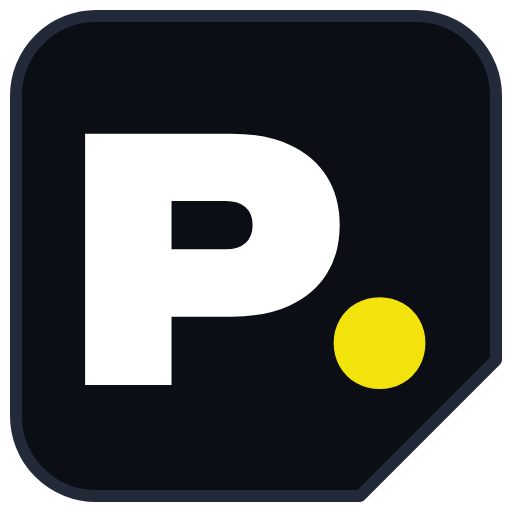
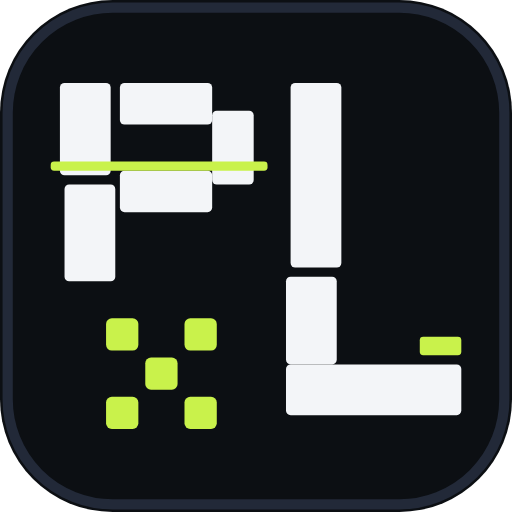
feat(brand): introduce PxlMark emblem and techno typography brand lockup

diff --git a/frontend/src/components/common/PxlLogo.tsx b/frontend/src/components/common/PxlLogo.tsx
@@ -1,23 +1,33 @@
 import { cn } from '@/lib/utils'
+import { PxlMark } from './PxlMark'
 
 interface PxlLogoProps {
   className?: string
   size?: 'sm' | 'md' | 'lg'
   showSubtitle?: boolean
   subtitleText?: string
+  showMark?: boolean
+  showWordmark?: boolean
+  layout?: 'horizontal' | 'vertical'
 }
 
 /**
- * Text-only wordmark lockup. Title tracking and subtitle tracking are tuned
- * per size so that PROXYLOADOUTS spans the same width as PXL. — keep in sync.
- * Hover/focus is driven by an ancestor `.group` (e.g. the wrapping link).
+ * PxlLogo brand lockup.
+ * When `showMark` is true, renders the PxlMark emblem perfectly aligned in height
+ * with the adjacent PROXYLOADOUTS typography, eliminating redundant duplicate PXL text.
+ * When `showMark` is false, renders the legacy text-only wordmark lockup.
  */
 export function PxlLogo({
   className,
   size = 'md',
   showSubtitle = true,
   subtitleText,
+  showMark = false,
+  showWordmark,
+  layout = 'horizontal',
 }: PxlLogoProps) {
+  const shouldShowWordmark = showWordmark ?? !showMark
+
   const titleSizes = {
     sm: 'text-[20px] tracking-[0.09em]',
     md: 'text-[20px] tracking-[0.09em]',
@@ -30,50 +40,126 @@ export function PxlLogo({
     lg: 'text-[11px] sm:text-[14px] tracking-[0.05em]',
   }
 
+  const markSizes = {
+    sm: 'sm' as const,
+    md: 'md' as const,
+    lg: 'lg' as const,
+  }
+
+  const textLockupStyles = {
+    sm: {
+      height: 'h-[17px]',
+      gap: 'gap-2',
+      proxy: 'text-[11.5px] tracking-[0.12em]',
+      loadouts: 'text-[6.5px] tracking-[0.44em]',
+    },
+    md: {
+      height: 'h-[22px]',
+      gap: 'gap-2.5',
+      proxy: 'text-[15px] tracking-[0.12em]',
+      loadouts: 'text-[8px] tracking-[0.44em]',
+    },
+    lg: {
+      height: 'h-11',
+      gap: 'gap-3.5',
+      proxy: 'text-[23px] tracking-[0.12em]',
+      loadouts: 'text-[12px] tracking-[0.44em]',
+    },
+  }
+
+  const currentLockup = textLockupStyles[size]
+
   return (
     <div
+      role="img"
+      aria-label="PXL"
       className={cn(
-        'group inline-flex flex-col text-left leading-none select-none',
-        'opacity-85 transition-opacity duration-200 ease-out hover:opacity-100 group-hover:opacity-100 group-focus-visible:opacity-100 motion-reduce:transition-none',
+        'group inline-flex select-none leading-none',
+        layout === 'horizontal'
+          ? cn('flex-row items-center', currentLockup.gap)
+          : 'flex-col items-center gap-2.5',
+        'opacity-90 transition-opacity duration-200 ease-out hover:opacity-100 group-hover:opacity-100 group-focus-visible:opacity-100 motion-reduce:transition-none',
         className,
       )}
     >
-      {/* Primary brand typography */}
-      <span
-        role="img"
-        aria-label="PXL"
-        className={cn(
-          'font-display font-black leading-[0.9] text-foreground',
-          titleSizes[size],
-        )}
-      >
-        <span aria-hidden>P</span>
-        <span aria-hidden className="text-primary">
-          X
-        </span>
-        <span aria-hidden>L</span>
-        <span aria-hidden className="text-primary">
-          .
-        </span>
-      </span>
+      {showMark && (
+        <PxlMark
+          size={markSizes[size]}
+          className="transition-transform duration-200 ease-out group-hover:scale-105 motion-reduce:transition-none"
+        />
+      )}
 
-      {/* Subtitle / descriptive tag */}
-      {showSubtitle && (
-        <span
+      {/* Typography container */}
+      {(shouldShowWordmark || showSubtitle) && (
+        <div
           className={cn(
-            'mt-1 flex justify-between font-mono font-bold uppercase text-muted-foreground',
-            subSizes[size],
+            'inline-flex flex-col text-left leading-none',
+            !shouldShowWordmark && layout === 'horizontal' && cn('justify-between', currentLockup.height),
           )}
         >
-          {subtitleText ? (
-            <span>{subtitleText}</span>
-          ) : (
-            <>
-              <span>PROXY</span>
-              <span className="text-foreground/80">LOADOUTS</span>
-            </>
+          {/* Legacy Wordmark (only if mark is not present or explicitly enabled) */}
+          {shouldShowWordmark && (
+            <span
+              className={cn(
+                'font-display font-black leading-[0.9] text-foreground',
+                titleSizes[size],
+              )}
+            >
+              <span aria-hidden>P</span>
+              <span aria-hidden className="text-primary">
+                X
+              </span>
+              <span aria-hidden>L</span>
+              <span aria-hidden className="text-primary">
+                .
+              </span>
+            </span>
           )}
-        </span>
+
+          {/* Subtitle / Descriptive Tag */}
+          {showSubtitle && (
+            <div
+              className={cn(
+                'flex leading-none',
+                shouldShowWordmark
+                  ? cn('mt-1 flex-row justify-between font-mono font-bold uppercase text-muted-foreground', subSizes[size])
+                  : layout === 'horizontal'
+                    ? 'flex-col justify-between h-full'
+                    : 'flex-col gap-1 text-center',
+              )}
+            >
+              {subtitleText ? (
+                <span className="font-mono text-xs font-bold uppercase text-muted-foreground">
+                  {subtitleText}
+                </span>
+              ) : shouldShowWordmark ? (
+                <>
+                  <span>PROXY</span>
+                  <span className="text-foreground/80">LOADOUTS</span>
+                </>
+              ) : (
+                <>
+                  <span
+                    className={cn(
+                      'font-tech font-bold text-foreground uppercase leading-none',
+                      currentLockup.proxy,
+                    )}
+                  >
+                    PROXY
+                  </span>
+                  <span
+                    className={cn(
+                      'font-tech font-bold text-primary uppercase leading-none',
+                      currentLockup.loadouts,
+                    )}
+                  >
+                    LOADOUTS
+                  </span>
+                </>
+              )}
+            </div>
+          )}
+        </div>
       )}
     </div>
   )

diff --git a/frontend/src/components/common/PxlMark.tsx b/frontend/src/components/common/PxlMark.tsx
@@ -1,0 +1,97 @@
+import { cn } from '@/lib/utils'
+
+export interface PxlMarkProps {
+  className?: string
+  size?: 'xs' | 'sm' | 'md' | 'lg' | 'xl'
+  animated?: boolean
+}
+
+const sizeClasses = {
+  xs: 'h-4 w-auto',
+  sm: 'h-[17px] w-auto',
+  md: 'h-[22px] w-auto',
+  lg: 'h-11 w-auto',
+  xl: 'h-16 w-auto',
+} as const
+
+/**
+ * PxlMark — Glitch Pixel Matrix Brand Emblem (P-x-L Monogram).
+ *
+ * Concept 05 (Extended L Base):
+ * - P: Sliced techno glyph with glowing glitch laser cut.
+ * - x: Pure 5-pixel modular matrix cluster.
+ * - L: Tall digital pillar with confident extended techno base (76px) and terminal accent.
+ */
+export function PxlMark({
+  className,
+  size = 'md',
+  animated = false,
+}: PxlMarkProps) {
+  return (
+    <svg
+      viewBox="34 30 182 154"
+      fill="none"
+      xmlns="http://www.w3.org/2000/svg"
+      aria-hidden="true"
+      className={cn(
+        'select-none shrink-0 drop-shadow-[0_2px_8px_rgba(0,0,0,0.5)]',
+        sizeClasses[size],
+        animated && 'transition-transform duration-200 ease-out hover:scale-105 active:scale-95',
+        className,
+      )}
+    >
+      <defs>
+        <filter id="pxl-mark-glow" x="-20%" y="-20%" width="140%" height="140%">
+          <feDropShadow dx="0" dy="0" stdDeviation="3" floodColor="var(--primary)" floodOpacity="0.45" />
+        </filter>
+      </defs>
+
+      {/* P Letter: Sliced Techno Glyph */}
+      <g fill="currentColor" opacity="0.95">
+        <rect x="40" y="32" width="22" height="40" rx="1.5" />
+        <rect x="42" y="76" width="22" height="42" rx="1.5" />
+        <rect x="66" y="32" width="40" height="18" rx="1.5" />
+        <rect x="106" y="44" width="18" height="32" rx="1.5" />
+        <rect x="66" y="70" width="40" height="18" rx="1.5" />
+      </g>
+
+      {/* Glitch Slice on P */}
+      <rect
+        x="36"
+        y="66"
+        width="94"
+        height="4"
+        rx="1"
+        fill="var(--primary)"
+        filter="url(#pxl-mark-glow)"
+      />
+
+      {/* X: Pure Pixel Matrix (5 Square Pixel Blocks) */}
+      <g fill="var(--primary)" filter="url(#pxl-mark-glow)">
+        <rect x="60" y="134" width="14" height="14" rx="2" />
+        <rect x="94" y="134" width="14" height="14" rx="2" />
+        <rect x="77" y="151" width="14" height="14" rx="2" />
+        <rect x="60" y="168" width="14" height="14" rx="2" />
+        <rect x="94" y="168" width="14" height="14" rx="2" />
+      </g>
+
+      {/* L: Digital Pillar with Extended Grounding Base */}
+      <g fill="currentColor" opacity="0.95">
+        <rect x="140" y="32" width="22" height="80" rx="1.5" />
+        <rect x="138" y="116" width="22" height="38" rx="1.5" />
+        <rect x="138" y="154" width="76" height="22" rx="1.5" />
+      </g>
+
+      {/* L Terminal Accent */}
+      <rect
+        x="196"
+        y="142"
+        width="18"
+        height="8"
+        rx="1"
+        fill="var(--primary)"
+        opacity="0.9"
+      />
+    </svg>
+  )
+}

diff --git a/frontend/src/styles/fonts.css b/frontend/src/styles/fonts.css
@@ -74,3 +74,25 @@
     U+02DC, U+0304, U+0308, U+0329, U+2000-206F, U+20AC, U+2122, U+2191, U+2193,
     U+2212, U+2215, U+FEFF, U+FFFD;
 }
+
+@font-face {
+  font-family: 'Chakra Petch';
+  font-style: normal;
+  font-display: swap;
+  font-weight: 600;
+  src: url('@fontsource/chakra-petch/files/chakra-petch-latin-600-normal.woff2') format('woff2');
+  unicode-range: U+0000-00FF, U+0131, U+0152-0153, U+02BB-02BC, U+02C6, U+02DA,
+    U+02DC, U+0304, U+0308, U+0329, U+2000-206F, U+20AC, U+2122, U+2191, U+2193,
+    U+2212, U+2215, U+FEFF, U+FFFD;
+}
+
+@font-face {
+  font-family: 'Chakra Petch';
+  font-style: normal;
+  font-display: swap;
+  font-weight: 700;
+  src: url('@fontsource/chakra-petch/files/chakra-petch-latin-700-normal.woff2') format('woff2');
+  unicode-range: U+0000-00FF, U+0131, U+0152-0153, U+02BB-02BC, U+02C6, U+02DA,
+    U+02DC, U+0304, U+0308, U+0329, U+2000-206F, U+20AC, U+2122, U+2191, U+2193,
+    U+2212, U+2215, U+FEFF, U+FFFD;
+}

diff --git a/frontend/src/components/common/PxlLogo.test.tsx b/frontend/src/components/common/PxlLogo.test.tsx
@@ -30,4 +30,14 @@ describe('PxlLogo', () => {
 
     expect(html).toContain('ZZZ BUILD SYSTEM')
   })
+
+  it('renders PxlMark SVG emblem when showMark is true', () => {
+    const html = renderToString(<PxlLogo showMark />)
+
+    expect(html).toContain('<svg')
+    expect(html).toContain('pxl-mark-glow')
+    expect(html).toContain('aria-label="PXL"')
+    expect(html).toContain('PROXY')
+    expect(html).toContain('LOADOUTS')
+  })
 })

diff --git a/frontend/src/index.css b/frontend/src/index.css
@@ -10,6 +10,7 @@
     --font-display: 'Unbounded Variable', sans-serif;
     --font-sans: 'Inter Variable', sans-serif;
     --font-mono: 'JetBrains Mono Variable', monospace;
+    --font-tech: 'Chakra Petch', sans-serif;
     --color-sidebar-ring: var(--sidebar-ring);
     --color-sidebar-border: var(--sidebar-border);
     --color-sidebar-accent-foreground: var(--sidebar-accent-foreground);

diff --git a/frontend/public/sw.js b/frontend/public/sw.js
@@ -7,7 +7,7 @@
 const CODE_CACHE = 'proxyloadouts-code-v1'
 const FONT_CACHE = 'proxyloadouts-fonts-v1'
 const NAVIGATION_CACHE = 'proxyloadouts-navigation-v1'
-const IMAGE_CACHE = 'proxyloadouts-images-v1'
+const IMAGE_CACHE = 'proxyloadouts-images-v2'
 const APP_CACHE_PREFIX = 'proxyloadouts-'
 const RETAINED_CACHES = new Set([CODE_CACHE, FONT_CACHE, NAVIGATION_CACHE, IMAGE_CACHE])
 

diff --git a/frontend/src/components/common/AppFooter.tsx b/frontend/src/components/common/AppFooter.tsx
@@ -29,7 +29,7 @@ export function AppFooter() {
             aria-label="ProxyLoadouts"
             className="group order-1 inline-flex w-fit items-center rounded-sm outline-none focus-visible:ring-2 focus-visible:ring-primary/70"
           >
-            <PxlLogo size="sm" />
+            <PxlLogo size="sm" showMark />
           </Link>
 
           <div

diff --git a/frontend/src/components/common/AppHeader.tsx b/frontend/src/components/common/AppHeader.tsx
@@ -71,7 +71,7 @@ export function AppHeader() {
             aria-label="ProxyLoadouts"
             className="group flex shrink-0 items-center select-none py-1"
           >
-            <PxlLogo size="md" />
+            <PxlLogo size="md" showMark />
           </NavLink>
 
           <nav

diff --git a/README.md b/README.md
@@ -1,6 +1,8 @@
 <div align="center">
 
-# ProxyLoadouts (PXL)
+<a href="https://proxyloadouts.com">
+  <img src="docs/images/logo-horizontal.png" alt="ProxyLoadouts Logo" width="360" />
+</a>
 
 **Equipment Preset Manager & Squad Planner for *Zenless Zone Zero***
 
